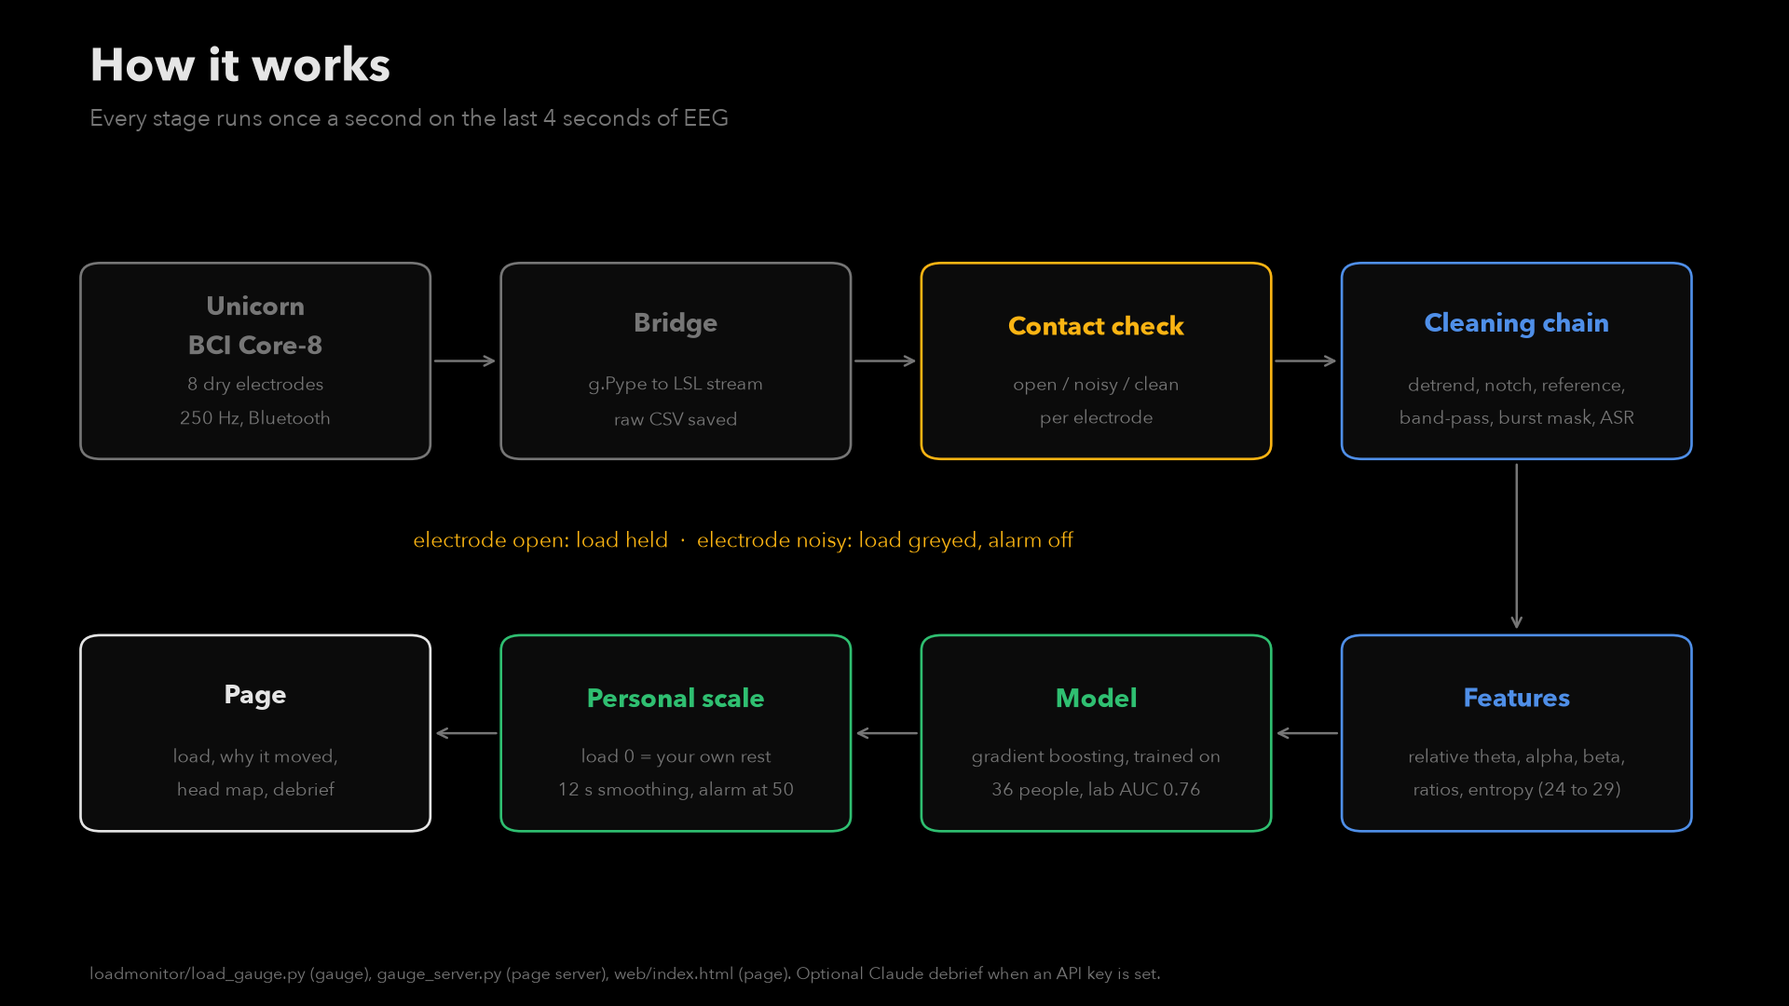
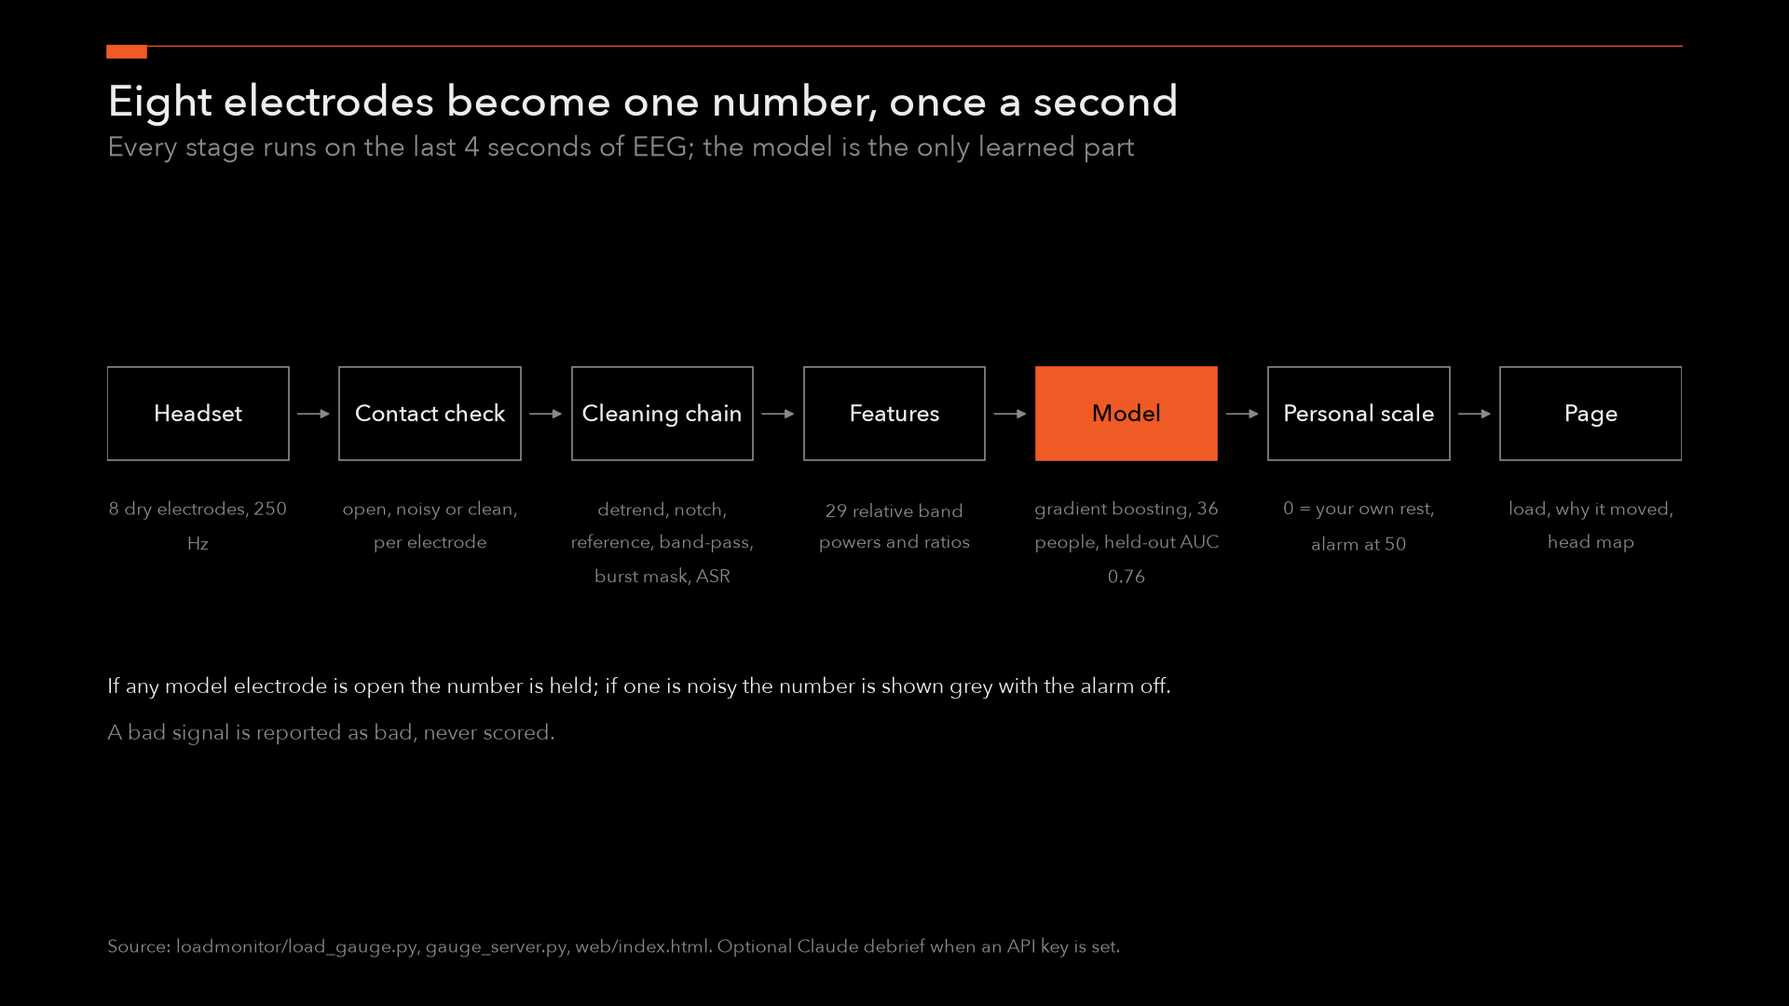
Figures redrawn to editorial rules on black: one accent, statement titles, direct labels, hairline grid, no legend boxes; figstyle.py + figures_editorial.py; best8 rebuilt

diff --git a/loadmonitor/figures_editorial.py b/loadmonitor/figures_editorial.py
@@ -1,0 +1,279 @@
+"""The eight presentation figures, editorial style (loadmonitor/figstyle.py), all from real data.
+
+    .venv/bin/python loadmonitor/figures_editorial.py        # writes figures/slides/best8/1..8 (about 6 min; ML pass cached)
+
+1 how it works        2 raw to clean, stage by stage        3 what each stage removes (spectrum)
+4 brain markers, 36 people    5 training curve    6 ROC on unseen people    7 live demo trace    8 app (screenshot, untouched)
+"""
+import csv
+import glob
+import json
+import os
+import subprocess
+import sys
+import time
+
+import numpy as np
+
+HERE = os.path.dirname(os.path.abspath(__file__))
+ROOT = os.path.dirname(HERE)
+sys.path.insert(0, HERE)
+sys.path.insert(0, os.path.join(ROOT, "headset"))
+os.chdir(ROOT)
+import warnings  # noqa: E402
+warnings.filterwarnings("ignore")
+import joblib  # noqa: E402
+import matplotlib.pyplot as plt  # noqa: E402
+from matplotlib.patches import Rectangle  # noqa: E402
+from scipy.signal import butter, hilbert, iirnotch, resample_poly, sosfiltfilt, tf2sos, welch  # noqa: E402
+from sklearn.base import clone  # noqa: E402
+from sklearn.metrics import roc_auc_score, roc_curve  # noqa: E402
+
+import figstyle as F  # noqa: E402
+import model_search as ms  # noqa: E402
+import readiness_model as rm  # noqa: E402
+from montage import MONTAGE  # noqa: E402
+
+FS = 250
+BEST = os.path.join(F.OUT, "best8")
+os.makedirs(BEST, exist_ok=True)
+live = joblib.load("models/readiness.joblib")
+CH, cfg = list(live["channels"]), live["feat_cfg"]
+NOTCH = tf2sos(*iirnotch(50.0, 30.0, fs=FS))
+
+
+def load_raw(path):
+    rows = []
+    for line in open(path):
+        if line.startswith("#") or line.startswith("t,"):
+            continue
+        try:
+            rows.append([float(v) for v in line.split(",")[1:9]])
+        except ValueError:
+            continue
+    return np.array(rows).T
+
+
+def out(fig, n, name):
+    F.save(fig, name)
+    import shutil
+    shutil.copy(os.path.join(F.OUT, name), os.path.join(BEST, f"{n}_{name}"))
+
+
+# ---------- 1 how it works ----------
+fig = F.page("Eight electrodes become one number, once a second", "Every stage runs on the last 4 seconds of EEG; the model is the only learned part")
+a = fig.add_axes([F.LEFT, 0.12, F.RIGHT - F.LEFT, 0.66]); a.set_xlim(0, 100); a.set_ylim(0, 100); a.axis("off"); a.grid(False)
+steps = [("Headset", "8 dry electrodes, 250 Hz", False), ("Contact check", "open, noisy or clean, per electrode", False),
+         ("Cleaning chain", "detrend, notch, reference, band-pass, burst mask, ASR", False), ("Features", "29 relative band powers and ratios", False),
+         ("Model", "gradient boosting, 36 people, held-out AUC 0.76", True), ("Personal scale", "0 = your own rest, alarm at 50", False),
+         ("Page", "load, why it moved, head map", False)]
+n = len(steps); w = 11.5; gap = (100 - n * w) / (n - 1)
+for i, (t, s, hot) in enumerate(steps):
+    x = i * (w + gap)
+    a.add_patch(Rectangle((x, 64), w, 14, fill=hot, fc=F.ACCENT if hot else F.PAGE, ec=F.ACCENT if hot else F.INK2, lw=1.0))
+    a.text(x + w / 2, 71, t, ha="center", va="center", fontsize=15, color=F.PAGE if hot else F.INK, weight="medium")
+    import textwrap
+    a.text(x + w / 2, 59, "\n".join(textwrap.wrap(s, 22)), ha="center", va="top", fontsize=12, color=F.INK2, linespacing=1.3)
+    if i < n - 1:
+        a.annotate("", (x + w + gap - 0.4, 71), (x + w + 0.4, 71), arrowprops=dict(arrowstyle="-|>", color=F.INK2, lw=1.0, mutation_scale=12))
+a.text(0, 30, "If any model electrode is open the number is held; if one is noisy the number is shown grey with the alarm off.", fontsize=14, color=F.INK, va="center")
+a.text(0, 23, "A bad signal is reported as bad, never scored.", fontsize=14, color=F.INK2, va="center")
+F.source(fig, "Source: loadmonitor/load_gauge.py, gauge_server.py, web/index.html. Optional Claude debrief when an API key is set.")
+out(fig, 1, "how_it_works.png")
+
+# ---------- 2 and 3: the chain stage by stage, one dry-cap window ----------
+rm.CH[:] = CH
+idx = [MONTAGE.index(c) for c in CH]
+x = load_raw(sorted(glob.glob("recordings/paing_20261108_011525_raw*.csv"))[0])[idx]
+best, best_e = None, None
+for e in range(30 * FS, x.shape[1], FS):
+    w_ = x[:, e - 4 * FS:e]
+    if np.any(np.abs(np.abs(w_) - 200000) < 1) or np.any(w_.std(1) < 1e-6):
+        continue
+    hum = w_[CH.index("Pz")] - w_[CH.index("Pz")].mean()
+    if best is None or hum.std() > best:
+        best, best_e = hum.std(), e
+    if best_e is not None and e > best_e + 60 * FS:
+        break
+w = x[:, best_e - 4 * FS:best_e]
+asr = ms.ASR(cfg["asr"])
+base = [x[:, e - 4 * FS:e] for e in range(4 * FS, 30 * FS, FS)]
+base = [b for b in base if not (np.any(np.abs(np.abs(b) - 200000) < 1) or np.any(b.std(1) < 1e-6))]
+if len(base) >= 5:
+    asr.fit([ms.clean_window(b, FS, cfg) for b in base])
+j = CH.index("Pz"); t = np.arange(w.shape[1]) / FS
+ok = (w.std(1) > 1e-6) & ~np.any(np.abs(np.abs(w) - 200000) < 1, axis=1)
+y = w - w.mean(1, keepdims=True); stages = [("Raw", "from the amplifier", y.copy())]
+tt_ = np.linspace(-1, 1, y.shape[1]); V = np.vander(tt_, int(cfg["detrend"]) + 1)
+coef, *_ = np.linalg.lstsq(V, y.T, rcond=None); y = y - (V @ coef).T; stages.append(("Detrend", "slow drift removed", y.copy()))
+for f0 in (50.0, 100.0):
+    y = sosfiltfilt(tf2sos(*iirnotch(f0, 30.0, fs=FS)), y, axis=1)
+stages.append(("Notch", "50 and 100 Hz mains removed", y.copy()))
+y = y - np.median(y[ok], axis=0, keepdims=True); stages.append(("Reference", "noise common to all electrodes removed", y.copy()))
+y = sosfiltfilt(butter(cfg.get("order", 4), [cfg["lo"], cfg["hi"]], btype="band", fs=FS, output="sos"), y, axis=1)
+stages.append(("Band-pass", "4 to 30 Hz kept", y.copy()))
+env = np.abs(hilbert(y, axis=1)); bad = env > cfg["burst"] * np.median(env, axis=1, keepdims=True) + 1e-9
+edge = int(0.5 * FS); bad[:, :edge] = False; bad[:, -edge:] = False
+k_ = max(3, int(FS * 0.05)); soft = np.array([np.convolve(bb.astype(float), np.ones(k_) / k_, mode="same") for bb in bad])
+y = y * np.clip(1.0 - soft * 1.5, 0.0, 1.0)
+assert np.allclose(y, ms.clean_window(w, FS, cfg))
+stages.append(("Burst mask", "sudden jumps zeroed", y.copy()))
+if asr.V is not None:
+    y = asr(y); stages.append(("ASR", "components far above rest removed", y.copy()))
+
+fig = F.page("Six filters take a dry electrode from 6,000 µV of noise to 34 µV of EEG", "The same 4 seconds at Pz on Paing's cap after each stage; each row on its own scale, µV RMS at the right")
+n = len(stages); top, bot = 0.80, 0.15; h = (top - bot) / n
+for i, (nm, what, yy) in enumerate(stages):
+    ax = fig.add_axes([0.26, top - (i + 1) * h + 0.008, 0.56, h - 0.016]); ax.grid(False); ax.axis("off")
+    last = i == n - 1
+    ax.plot(t, yy[j], color=F.ACCENT if last else F.INK, lw=1.3 if last else 0.9)
+    ax.set_xlim(0, 4)
+    fig.text(F.LEFT, top - (i + 0.5) * h + 0.012, nm, fontsize=16, color=F.ACCENT if last else F.INK, va="center", weight="medium")
+    fig.text(F.LEFT, top - (i + 0.5) * h - 0.014, what, fontsize=12.5, color=F.INK2, va="center")
+    r = yy[j][FS // 2:-FS // 2].std()
+    fig.text(0.84, top - (i + 0.5) * h, f"{r:,.0f}", fontsize=18, color=F.ACCENT if last else F.INK, va="center", ha="left")
+fig.text(0.84, top + 0.012, "µV RMS", fontsize=F.T_AX, color=F.INK2, va="bottom")
+ax.axis("on"); ax.spines["bottom"].set_visible(True); ax.set_yticks([]); ax.set_xticks([0, 1, 2, 3, 4]); ax.set_xticklabels(["0", "1", "2", "3", "4 s"])
+F.source(fig, "Source: recording paing_20261108_011525, Pz. Stage outputs verified identical to the live code (model_search.clean_window). Scalp EEG is about 10 to 50 µV.")
+out(fig, 2, "raw_to_clean.png")
+
+fig = F.page("Mains hum sits a million times above the brain bands until the chain removes it", "Power spectrum of the same window after each stage, µV² per Hz, log scale")
+a = F.axes(fig, (F.LEFT, 0.16, 0.80, 0.62))
+pick = [(0, F.GREY, 1.2), (2, F.INK2, 1.2), (4, F.INK, 2.0), (n - 1, F.ACCENT, 2.6)]
+for lo, hi, nm in ((4, 8, "theta"), (8, 13, "alpha"), (13, 30, "beta")):
+    a.axvspan(lo, hi, color=F.BAND, lw=0)
+    a.text((lo + hi) / 2, 2e7, nm, ha="center", va="top", fontsize=13, color=F.INK2)
+ends = {}
+for i, col, lw in pick:
+    f_, p_ = welch(stages[i][2][j], fs=FS, nperseg=2 * FS)
+    a.semilogy(f_, p_ + 1e-5, color=col, lw=lw); ends[i] = p_[-1] + 1e-5
+F.end_label(a, 110, 3.0, "raw", F.GREY); F.end_label(a, 110, 0.6, "after notch", F.INK2)
+a.text(21, 2.5e3, "after band-pass", color=F.INK, fontsize=F.T_LABEL, ha="left", va="bottom"); F.end_label(a, 110, 2e-3, "after full chain", F.ACCENT, weight="medium")
+a.set_xlim(0, 110); a.set_ylim(1e-4, 5e7); a.set_xlabel("frequency, Hz")
+a.annotate("50 Hz mains", (50, 1e5), xytext=(58, 3e6), color=F.INK2, fontsize=13, arrowprops=dict(arrowstyle="-", color=F.INK2, lw=0.75))
+F.source(fig, "Source: same Pz window as the previous figure. Welch, 2 s segments.")
+out(fig, 3, "stage_spectra.png")
+
+# ---------- 4 brain markers, 36 people ----------
+rm.CH[:] = ["Fz", "Pz", "O1"]
+def rel(sig, lo, hi):
+    f_, p_ = welch(sig - sig.mean(), fs=FS, nperseg=2 * FS)
+    return 10 * np.log10(p_[(f_ >= lo) & (f_ < hi)].sum() / p_[(f_ >= 4) & (f_ < 30)].sum())
+P = []
+for path in sorted(glob.glob("data/eegmat/Subject*_1.edf")):
+    xr, fs = rm.load_edf(path); xt, _ = rm.load_edf(path.replace("_1.edf", "_2.edf"))
+    if fs == 500:
+        xr = resample_poly(xr, 1, 2, axis=1); xt = resample_poly(xt, 1, 2, axis=1)
+    def med(xx, ch, lo, hi, a0, a1):
+        return float(np.median([rel(sosfiltfilt(NOTCH, xx[ch, s:s + 4 * FS]), lo, hi) for s in range(a0 * FS, min(a1 * FS, xx.shape[1] - 4 * FS), 2 * FS)]))
+    P.append((np.mean([med(xr, 1, 8, 13, 30, 90), med(xr, 2, 8, 13, 30, 90)]), np.mean([med(xt, 1, 8, 13, 0, 60), med(xt, 2, 8, 13, 0, 60)]),
+              med(xr, 0, 4, 8, 30, 90), med(xt, 0, 4, 8, 0, 60)))
+P = np.array(P)
+fig = F.page("In arithmetic, alpha at the back of the head falls and theta at the front rises", f"{len(P)} lab people, rest then silent subtraction; relative band power, dB; one line per person, the median in colour")
+for k, (i0, i1, nm, col, expect_down) in enumerate(((0, 1, "Posterior alpha, Pz and O1", F.ACCENT, True), (2, 3, "Frontal theta, Fz", F.ACCENT, False))):
+    a = F.axes(fig, (F.LEFT + k * 0.47, 0.16, 0.34, 0.60))
+    d = P[:, i1] - P[:, i0]
+    for r in P:
+        a.plot([0, 1], [r[i0], r[i1]], color=F.GREY, lw=1.0)
+    a.plot([0, 1], [np.median(P[:, i0]), np.median(P[:, i1])], color=col, lw=3.0)
+    F.end_label(a, 1, np.median(P[:, i1]), f"median {np.median(d):+.1f} dB", col, weight="medium")
+    a.set_xticks([0, 1]); a.set_xticklabels(["rest", "arithmetic"]); a.set_xlim(-0.1, 1.45)
+    a.text(0, 1.03, nm, transform=a.transAxes, fontsize=F.T_AX, color=F.INK, weight="medium", va="bottom")
+    n_dir = int(np.sum(d < 0)) if expect_down else int(np.sum(d > 0))
+    a.text(0, -0.14, f"{'falls' if expect_down else 'rises'} in {n_dir} of {len(P)} people", transform=a.transAxes, fontsize=14, color=F.INK2)
+F.source(fig, "Source: PhysioNet EEG during mental arithmetic (gel cap). Rest file 30 to 90 s vs task file 0 to 60 s, 4 s windows, median per person.")
+out(fig, 4, "brain_markers.png")
+
+# ---------- 5 and 6: training curve and ROC, one leave-one-person-out pass ----------
+cache = "models/_slide_feats.npz"
+rm.CH[:] = CH
+if os.path.exists(cache):
+    z = np.load(cache, allow_pickle=True); X, yv, subj = z["X"], z["y"], z["subj"]
+else:
+    X, yv, subj = ms.build(4.0, True, True, cfg); np.savez(cache, X=X, y=yv, subj=subj)
+nb = 6 - int(bool(cfg.get("drop_delta"))) - int(bool(cfg.get("drop_gamma")))
+mask = np.ones(X.shape[1], bool); mask[:nb * len(CH)] = False; mask[-1] = False
+X = X[:, mask]
+gb = dict(ms.models())["grad boosting"]; n_est = gb.get_params()["n_estimators"]; stg = np.arange(1, n_est + 1)
+cache2 = "models/_slide_loso.joblib"
+if os.path.exists(cache2):
+    tr_auc, te_auc, pp, py, per_curves = joblib.load(cache2)
+else:
+    tr_auc, te_auc, pps, pys, per_curves = [], [], [], [], []
+    for s_ in sorted(set(subj)):
+        tr, te = subj != s_, subj == s_
+        m = clone(gb).fit(X[tr], yv[tr])
+        tr_auc.append([roc_auc_score(yv[tr], p[:, 1]) for p in m.staged_predict_proba(X[tr])])
+        te_auc.append([roc_auc_score(yv[te], p[:, 1]) for p in m.staged_predict_proba(X[te])])
+        p = m.predict_proba(X[te])[:, 1]; pps.append(p); pys.append(yv[te]); per_curves.append(roc_curve(yv[te], p)[:2])
+    tr_auc, te_auc = np.array(tr_auc), np.array(te_auc); pp, py = np.concatenate(pps), np.concatenate(pys)
+    joblib.dump((tr_auc, te_auc, pp, py, per_curves), cache2)
+pooled = roc_auc_score(py, pp); med_auc = float(np.median(te_auc[:, -1]))
+
+fig = F.page("On a new person the model stops improving after about 50 trees", "AUC, rest vs arithmetic, as trees are added; mean of 36 leave-one-person-out rounds, band = middle half")
+a = F.axes(fig, (F.LEFT, 0.16, 0.76, 0.62))
+for arr, col, nm in ((tr_auc, F.GREY, "training people"), (te_auc, F.ACCENT, "person never seen")):
+    mu = arr.mean(0)
+    a.fill_between(stg, np.percentile(arr, 25, axis=0), np.percentile(arr, 75, axis=0), color=col, alpha=0.18, lw=0)
+    a.plot(stg, mu, color=col, lw=2.6 if col == F.ACCENT else 2.0)
+    F.end_label(a, n_est, mu[-1], f"{nm}  {mu[-1]:.2f}", F.INK2 if col == F.GREY else col, weight="medium" if col == F.ACCENT else "normal")
+a.axhline(0.5, color=F.INK2, lw=1.0, ls=(0, (4, 3))); F.end_label(a, n_est, 0.5, "chance", F.INK2)
+a.set_xlim(1, n_est); a.set_ylim(0.45, 1.0); a.set_xlabel("boosting trees"); a.set_yticks([0.5, 0.6, 0.7, 0.8, 0.9, 1.0])
+F.source(fig, "Source: PhysioNet EEG during mental arithmetic, 36 people. Live recipe: 5 channels, cleaning chain, 29 amplitude-invariant features, 200 trees of depth 2.")
+out(fig, 5, "training_curve.png")
+
+fig = F.page(f"On people it has never seen, the model reaches an AUROC of {pooled:.2f}", "Each of 36 people scored by a model trained on the other 35, one 4 s window at a time; grey = one person, orange = all pooled")
+a = fig.add_axes([0.30, 0.15, 0.40, 0.63]); a.tick_params(axis="y", length=0); a.grid(True, axis="both")
+for fpr, tpr in per_curves:
+    a.plot(fpr, tpr, color=F.GREY, lw=0.8, alpha=0.6)
+fpr, tpr, _ = roc_curve(py, pp)
+a.plot(fpr, tpr, color=F.ACCENT, lw=3.0)
+a.plot([0, 1], [0, 1], color=F.INK2, lw=1.0, ls=(0, (4, 3)))
+a.set_xlim(0, 1); a.set_ylim(0, 1); a.set_aspect("equal")
+a.set_xlabel("false positive rate: rest called load"); a.text(-0.02, 1.02, "true positive rate: arithmetic caught", transform=a.transAxes, fontsize=F.T_AX, color=F.INK2, va="bottom")
+fig.text(0.76, 0.66, f"{pooled:.2f}", fontsize=56, color=F.ACCENT, weight="medium", va="center")
+fig.text(0.76, 0.60, "pooled AUROC, held out", fontsize=F.T_AX, color=F.INK2)
+fig.text(0.76, 0.48, f"{med_auc:.2f}", fontsize=36, color=F.INK, va="center")
+fig.text(0.76, 0.43, "median per person", fontsize=F.T_AX, color=F.INK2)
+fig.text(0.76, 0.33, f"{int(np.sum(te_auc[:, -1] >= 0.7))} of 36", fontsize=36, color=F.INK, va="center")
+fig.text(0.76, 0.28, "people at 0.7 or better", fontsize=F.T_AX, color=F.INK2)
+F.source(fig, "Source: PhysioNet EEG during mental arithmetic (gel cap). Per-window scores before the live 12 s smoothing. Not validated on the dry cap.")
+out(fig, 6, "roc.png")
+
+# ---------- 7 live demo trace ----------
+logp = os.path.join(F.OUT, "_lab_demo_gauge.csv")
+port = subprocess.run([sys.executable, "tests/free_port.py"], capture_output=True, text=True).stdout.strip()
+srv = subprocess.Popen([sys.executable, "loadmonitor/gauge_server.py", port], stdout=subprocess.DEVNULL, stderr=subprocess.DEVNULL)
+try:
+    time.sleep(1.2)
+    subprocess.run([sys.executable, "loadmonitor/load_gauge.py", "--replay", "demo/lab_eegmat_s09_raw.csv", "--model", "models/readiness_demo.joblib",
+                    "--speed", "40", "--web", "--web-port", port, "--no-ui", "--alarm", "50", "--hold", "20", "--smooth", "12", "--log", logp],
+                   capture_output=True, timeout=600)
+finally:
+    srv.terminate(); subprocess.run(["rmdir", f"/tmp/oxn_test_port_{port}"], capture_output=True)
+R = list(csv.DictReader(open(logp))); os.remove(logp)
+tt = np.array([float(r["t"]) for r in R]); L = np.array([float(r["load_pct"]) for r in R]); A = np.array([int(r["alarm"]) for r in R])
+xl = load_raw("demo/lab_eegmat_s09_raw.csv")
+al = []
+for e in range(4 * FS, xl.shape[1] + 1, FS):
+    al.append(np.mean([10 * np.log10(welch(xl[MONTAGE.index(c), e - 4 * FS:e] - xl[MONTAGE.index(c), e - 4 * FS:e].mean(), fs=FS, nperseg=2 * FS)[1][(np.arange(0, 125.5, 0.5) >= 8) & (np.arange(0, 125.5, 0.5) < 13)].mean()) for c in ("Pz", "O1")]))
+al = np.array(al); ta = np.arange(4, 4 + len(al)); al = al - al[(ta >= 4) & (ta < 34)].mean(); al_s = np.convolve(al, np.ones(9) / 9, mode="same")
+fig = F.page("A held-out person's load climbs during arithmetic and falls back at rest", "Lab EEG replayed through the live gauge; load with 0 = that person's own rest; posterior alpha below, dB vs rest")
+a = F.axes(fig, (F.LEFT, 0.46, 0.80, 0.32)); b = F.axes(fig, (F.LEFT, 0.19, 0.80, 0.19))
+for lo, hi, nm in ((34, 90, "rest"), (90, 150, "arithmetic"), (150, 210, "recovery")):
+    a.axvspan(lo, hi, color=F.BAND if nm == "arithmetic" else F.PAGE, lw=0); b.axvspan(lo, hi, color=F.BAND if nm == "arithmetic" else F.PAGE, lw=0)
+    a.text((lo + hi) / 2, 104, nm, ha="center", va="bottom", fontsize=14, color=F.INK)
+a.plot(tt, L, color=F.INK, lw=2.6); a.fill_between(tt, 0, L, where=A > 0, color=F.ACCENT, alpha=0.35, lw=0)
+a.axhline(50, color=F.INK2, lw=1.0, ls=(0, (4, 3))); F.end_label(a, 210, 50, "alarm line", F.INK2); F.end_label(a, 210, L[-1], "load", F.INK, weight="medium")
+a.set_ylim(0, 115); a.set_yticks([0, 25, 50, 75, 100]); a.set_xlim(34, 210); a.tick_params(labelbottom=False)
+b.plot(ta, al_s, color=F.INK2, lw=1.8); b.axhline(0, color=F.GREY, lw=0.75); F.end_label(b, 210, al_s[-3], "posterior alpha", F.INK2)
+b.set_xlim(34, 210); b.set_yticks([-4, 0, 4]); b.set_xticks([40, 80, 120, 160, 200]); b.set_xticklabels(["40", "80", "120", "160", "200 s"])
+F.source(fig, "Source: PhysioNet eegmat person 09, held out of the model's training. Shaded span = where the alarm was on (load above 50 for 20 s; it lingers from the 12 s smoothing).\n"
+         "The recovery minute is the same person's earlier rest; the dataset has no rest after the task. Alpha: 8 to 13 Hz, mean of Pz and O1, 9 s smoothing.")
+out(fig, 7, "live_demo.png")
+
+# ---------- 8 app: the real page, untouched ----------
+import shutil
+shutil.copy(os.path.join(F.OUT, "10_app.png"), os.path.join(BEST, "8_app.png"))
+print("wrote figures/slides/best8/8_app.png (screenshot)")
+print(f"pooled AUROC {pooled:.3f}, median per person {med_auc:.3f}")

diff --git a/loadmonitor/figstyle.py b/loadmonitor/figstyle.py
@@ -1,0 +1,86 @@
+"""Editorial figure style (Economist / FT / Nature rules, Tufte data-ink), one module every figure uses.
+
+Rules, from the sources read on 8 Nov (research-figure-guide.nature.com, ftplottools ft_theme.R, ggthemes economist.R,
+Rougier et al. 2014):
+  white page; ink text; one accent colour for the important data, everything else grey
+  title = a statement, left-aligned at the figure edge; subtitle carries the units; source line bottom-left
+  bottom spine only, horizontal hairline gridlines, no y-axis line, y tick length 0, x ticks outward
+  direct labels at line ends, no legend boxes; context series thin grey
+  no rounded cards, gradients, shadows, coloured titles, boxed axes or vertical grid on line charts
+"""
+import os
+
+import matplotlib
+matplotlib.use("Agg")
+import matplotlib.pyplot as plt  # noqa: E402
+from matplotlib import font_manager  # noqa: E402
+
+ROOT = os.path.dirname(os.path.dirname(os.path.abspath(__file__)))
+OUT = os.path.join(ROOT, "figures", "slides")
+os.makedirs(OUT, exist_ok=True)
+
+# dark variant of the same rules (Paing's call: the page is black, so are the slides). Still one accent, ink-only titles.
+PAGE = "#000000"
+INK = "#EDEDED"
+INK2 = "#8A8A8A"          # subtitle, ticks, source, de-emphasised text
+GRID = "#1E1E1E"
+GREY = "#4A4A4A"          # context series
+ACCENT = "#F05A24"        # the one important thing (the page's alarm orange)
+LEAD = "#EDEDED"          # lead series: ink, so colour is spent only on the accent
+BAND = "#141414"          # shaded spans (task phase, brain bands)
+
+_names = {f.name for f in font_manager.fontManager.ttflist}
+FONT = next((f for f in ("Avenir Next", "Helvetica Neue", "Helvetica", "Arial") if f in _names), "DejaVu Sans")
+T_TITLE, T_SUB, T_AX, T_TICK, T_LABEL, T_SRC = 28, 18, 15, 15, 15, 12
+
+plt.rcParams.update({
+    "font.family": FONT, "font.size": T_TICK, "text.color": INK,
+    "figure.facecolor": PAGE, "axes.facecolor": PAGE, "savefig.facecolor": PAGE,
+    "axes.edgecolor": INK, "axes.linewidth": 1.0, "axes.labelcolor": INK2,
+    "axes.spines.top": False, "axes.spines.right": False, "axes.spines.left": False,
+    "axes.grid": True, "axes.grid.axis": "y", "grid.color": GRID, "grid.linewidth": 0.75, "axes.axisbelow": True,
+    "xtick.color": INK2, "ytick.color": INK2, "xtick.direction": "out", "xtick.major.size": 5, "xtick.major.width": 0.75,
+    "ytick.major.size": 0, "ytick.major.pad": 6, "xtick.labelsize": T_TICK, "ytick.labelsize": T_TICK,
+    "axes.titlesize": T_AX, "axes.labelsize": T_AX, "legend.frameon": False, "pdf.fonttype": 42,
+})
+
+LEFT, RIGHT = 0.06, 0.94
+
+
+def page(title, subtitle):
+    """A 1920 x 1080 figure with the title block: thin accent rule, statement title, subtitle with the units."""
+    fig = plt.figure(figsize=(16, 9), dpi=120)
+    fig.add_artist(plt.Line2D([LEFT, RIGHT], [0.955, 0.955], color=ACCENT, lw=0.75, transform=fig.transFigure))
+    fig.add_artist(plt.Rectangle((LEFT, 0.955 - 0.012), 0.022, 0.012, color=ACCENT, transform=fig.transFigure))
+    fig.text(LEFT, 0.885, title, fontsize=T_TITLE, color=INK, weight="medium", va="baseline")
+    fig.text(LEFT, 0.845, subtitle, fontsize=T_SUB, color=INK2, va="baseline")
+    return fig
+
+
+def axes(fig, rect=(LEFT, 0.16, RIGHT - LEFT, 0.62)):
+    a = fig.add_axes(rect)
+    a.tick_params(axis="y", length=0)
+    a.spines["bottom"].set_color(INK2)
+    return a
+
+
+def ylabel_top(a, text):
+    """Unit label sitting above the top of the y axis, Economist style, instead of a rotated axis title."""
+    a.text(0, 1.02, text, transform=a.transAxes, ha="left", va="bottom", fontsize=T_AX, color=INK2)
+
+
+def end_label(a, x, y, text, color, dy=0, weight="normal", size=T_LABEL):
+    a.annotate(text, (x, y), xytext=(8, dy), textcoords="offset points", color=color, fontsize=size, va="center", weight=weight,
+               annotation_clip=False)
+
+
+def source(fig, text):
+    fig.text(LEFT, 0.04, text, fontsize=T_SRC, color=INK2, va="bottom", linespacing=1.45)
+
+
+def save(fig, name):
+    path = os.path.join(OUT, name)
+    fig.savefig(path)
+    plt.close(fig)
+    print("wrote", os.path.relpath(path, ROOT))
+    return path
